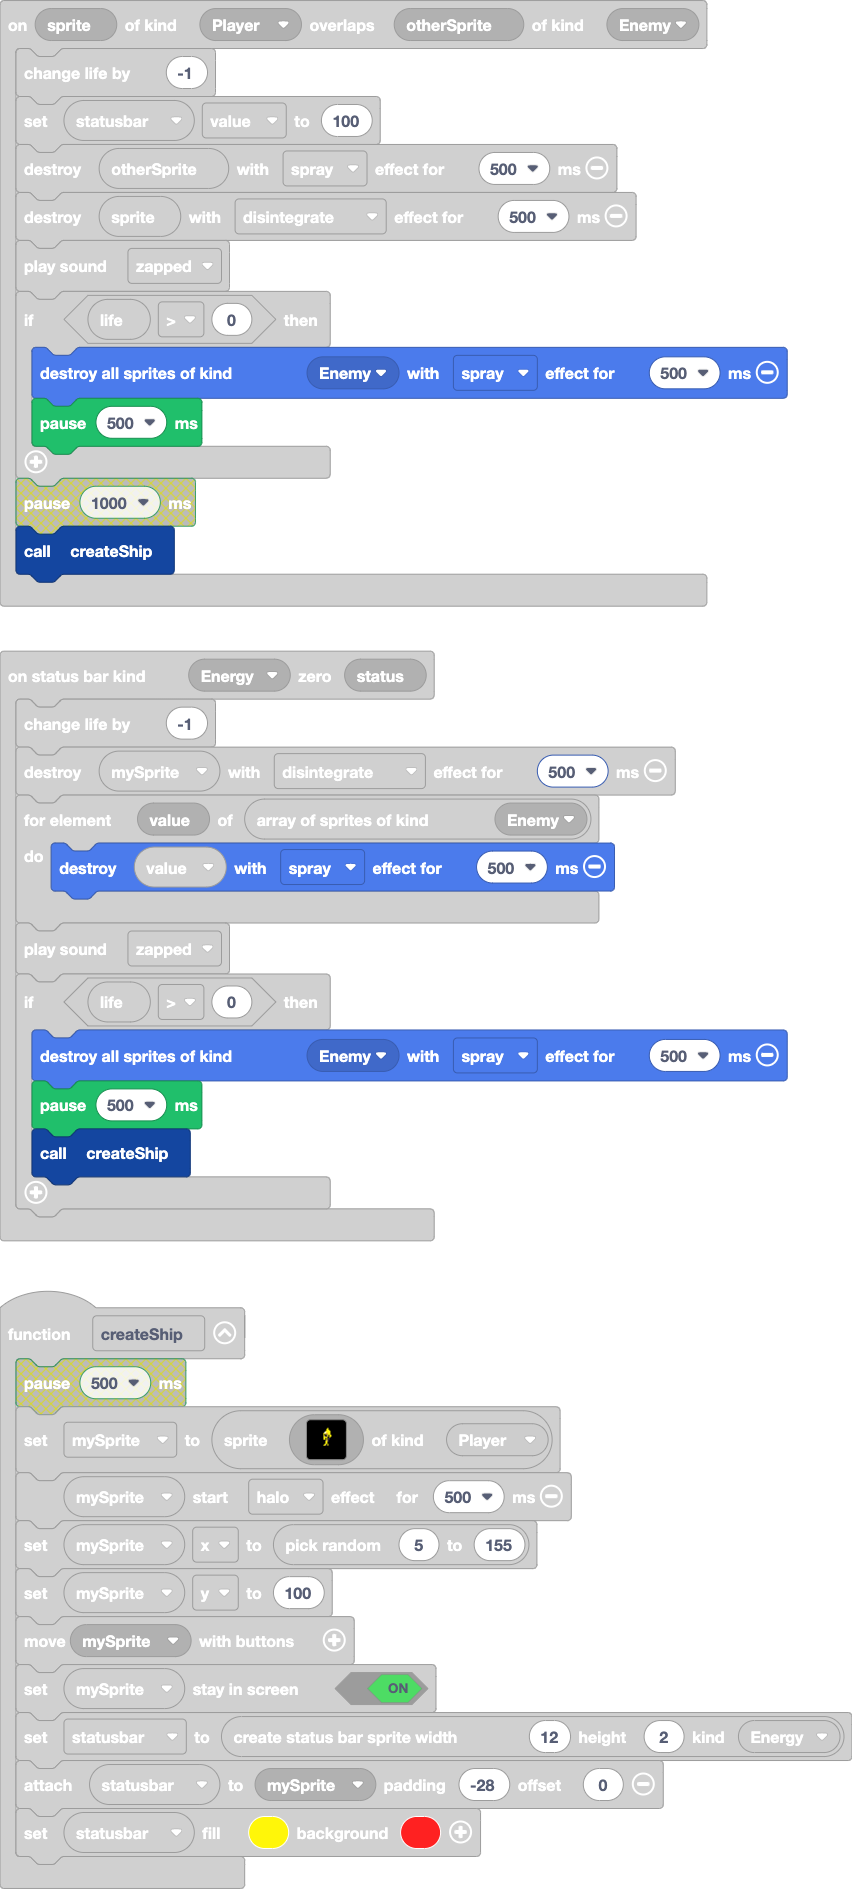
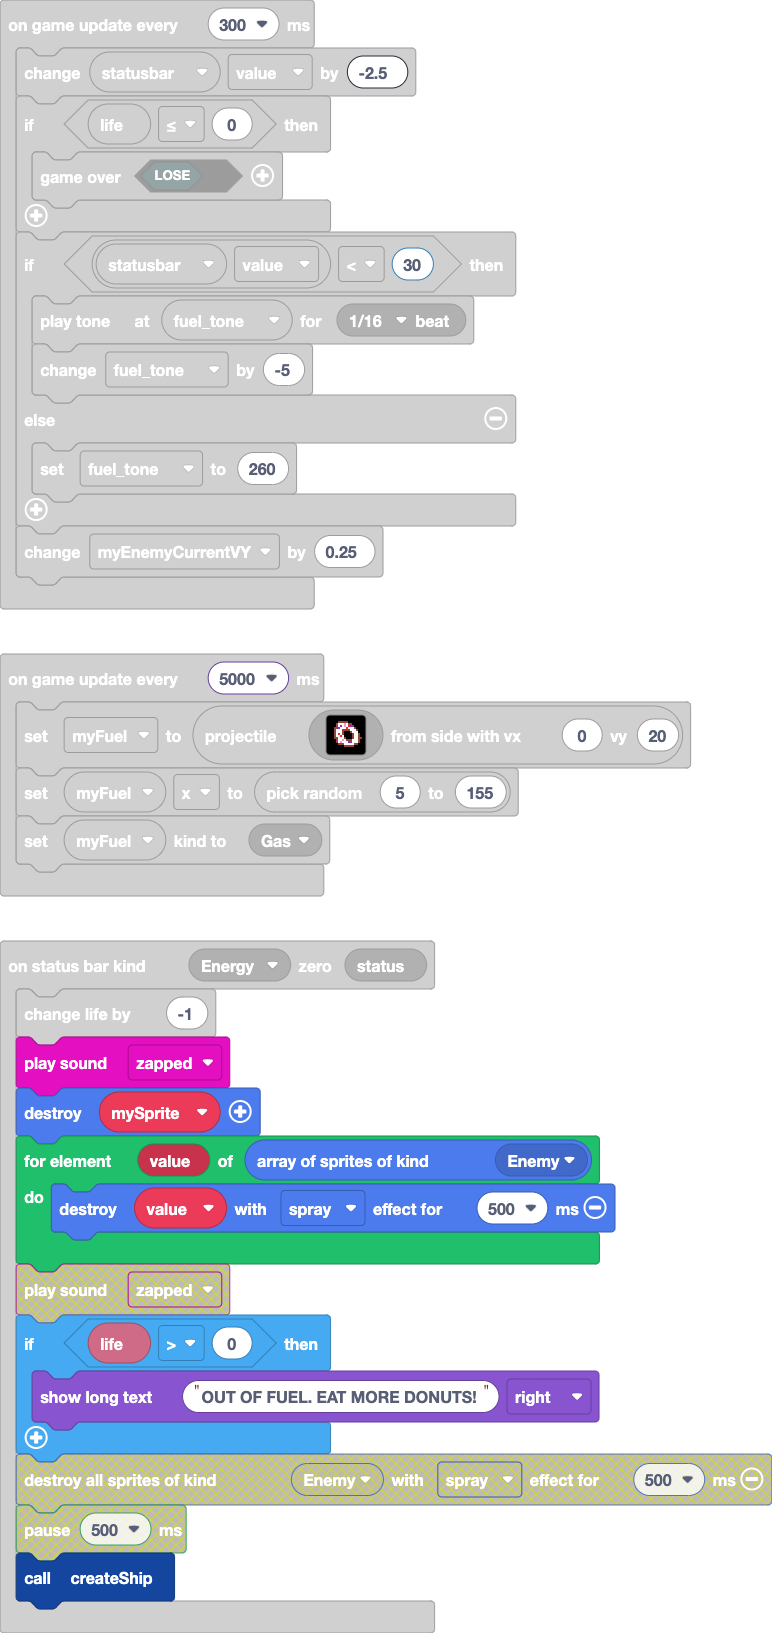
Improvements to gameplay when fuel runs out

diff --git a/main.ts b/main.ts
@@ -55,14 +55,13 @@ function splashScreen () {
 }
 statusbars.onZero(StatusBarKind.Energy, function (status) {
     info.changeLifeBy(-1)
-    mySprite.destroy(effects.disintegrate, 500)
+    music.zapped.play()
+    mySprite.destroy()
     for (let value of sprites.allOfKind(SpriteKind.Enemy)) {
         value.destroy(effects.spray, 500)
     }
-    music.zapped.play()
     if (info.life() > 0) {
-        sprites.destroyAllSpritesOfKind(SpriteKind.Enemy, effects.spray, 500)
-        pause(500)
+        game.showLongText("OUT OF FUEL. EAT MORE DONUTS!", DialogLayout.Right)
         createShip()
     }
 })
@@ -85,8 +84,8 @@ sprites.onOverlap(SpriteKind.Player, SpriteKind.Enemy, function (sprite, otherSp
 //  
 // 
 let fuel_tone = 0
-let myFuel: Sprite = null
 let myEnemy: Sprite = null
+let myFuel: Sprite = null
 let statusbar: StatusBarSprite = null
 let projectile: Sprite = null
 let timeOfShot = 0
@@ -103,23 +102,23 @@ effects.starField.startScreenEffect()
 let myEnemyCurrentVY = 50
 let enemySpawnTimer = 1500
 createShip()
+game.onUpdateInterval(5000, function () {
+    myFuel = sprites.createProjectileFromSide(assets.image`DonutFuel`, 0, 20)
+    myFuel.x = randint(5, 155)
+    myFuel.setKind(SpriteKind.Gas)
+})
 game.onUpdateInterval(enemySpawnTimer, function () {
     myEnemy = sprites.createProjectileFromSprite(assets.image`Ghost`, mySprite, randint(-10, 10), myEnemyCurrentVY * randint(0.8, 1.3))
     myEnemy.x = randint(5, 155)
     myEnemy.y = 0
     myEnemy.setKind(SpriteKind.Enemy)
 })
-game.onUpdateInterval(4000, function () {
-    myFuel = sprites.createProjectileFromSide(assets.image`DonutFuel`, 0, 20)
-    myFuel.x = randint(5, 155)
-    myFuel.setKind(SpriteKind.Gas)
-})
 game.onUpdateInterval(300, function () {
-    statusbar.value += -2
+    statusbar.value += -2.5
     if (info.life() <= 0) {
         game.over(false)
     }
-    if (statusbar.value < 25) {
+    if (statusbar.value < 30) {
         music.playTone(fuel_tone, music.beat(BeatFraction.Sixteenth))
         fuel_tone += -5
     } else {
